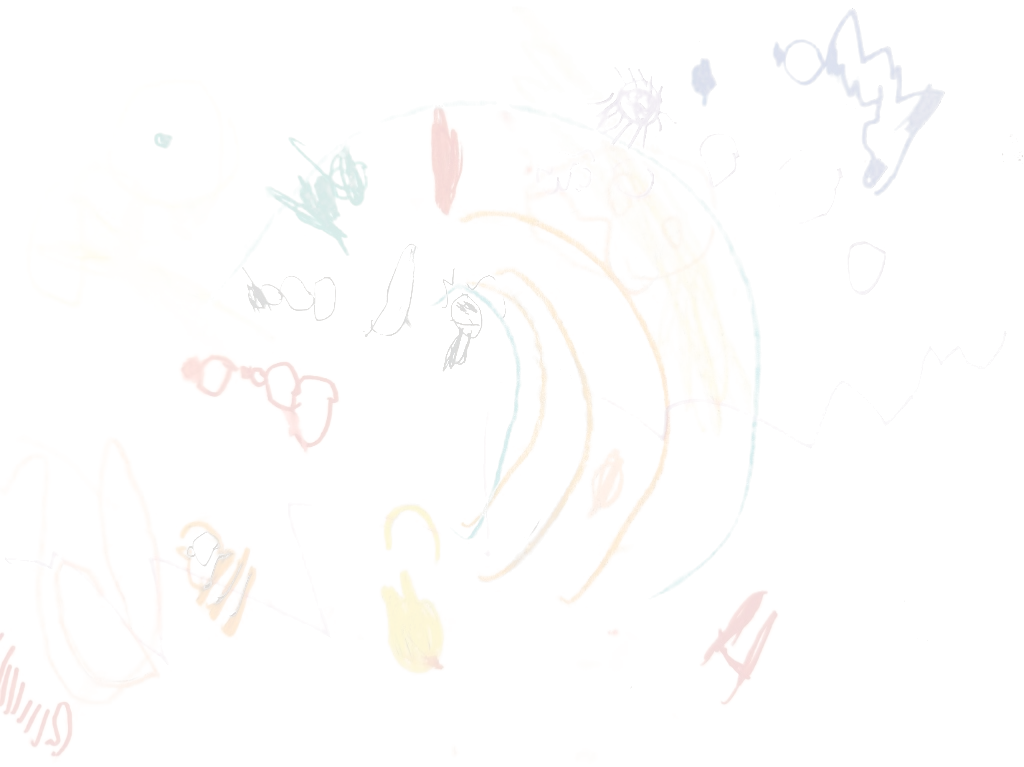
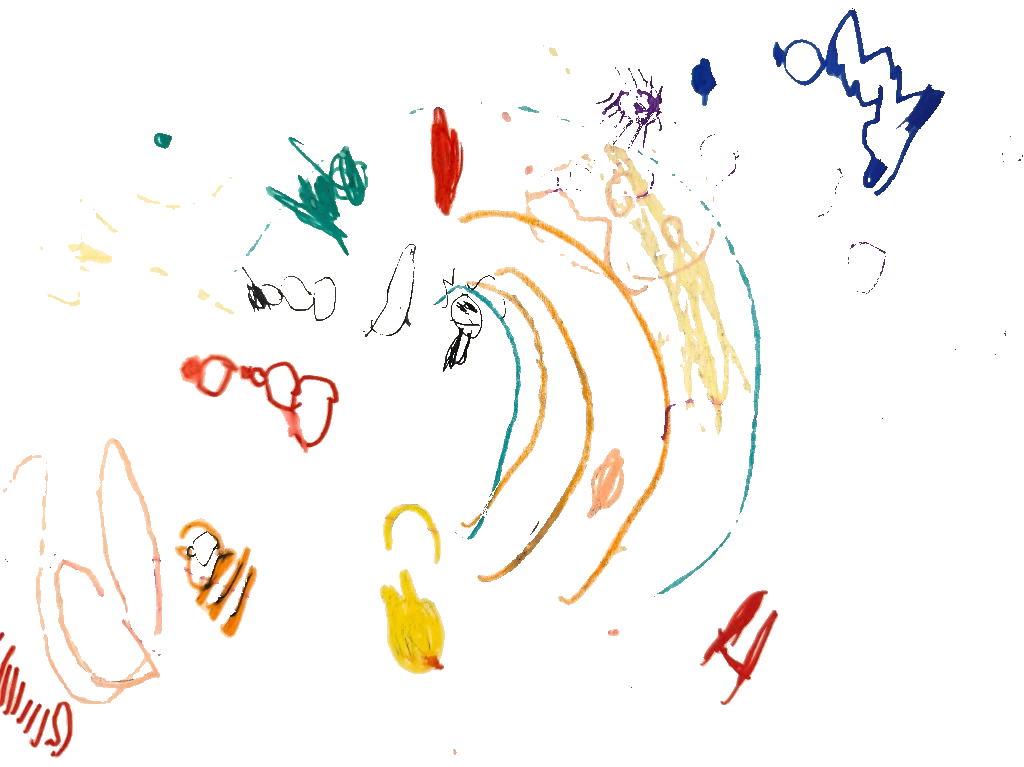
Make the booking tracing static and restore natural crayon colors.

diff --git a/src/pages/book-portal.css b/src/pages/book-portal.css
@@ -252,65 +252,8 @@
   pointer-events: none;
   position: absolute;
   inset: 6px 8px;
-  opacity: 0.96;
-  filter: brightness(1.42) saturate(1.72) contrast(1.12);
-  transform-origin: center;
-  will-change: transform, filter;
-}
-
-.page--book-portal .book-portal__calendar-tracing--one {
-  animation: calendar-tracing-drift-one 5.5s ease-in-out infinite alternate;
-}
-
-.page--book-portal .book-portal__calendar-tracing--two {
-  animation: calendar-tracing-drift-two 6.5s ease-in-out -2s infinite alternate;
-  opacity: 0.52;
-  mix-blend-mode: screen;
-}
-
-.page--book-portal .book-portal__calendar-tracing--three {
-  animation: calendar-tracing-drift-three 7.5s ease-in-out -4s infinite alternate;
-  opacity: 0.36;
-  mix-blend-mode: screen;
-}
-
-@keyframes calendar-tracing-drift-one {
-  from {
-    transform: translate3d(-2.5%, 2.25%, 0) rotate(-2deg) scale(0.985);
-    filter: brightness(1.3) saturate(1.5) contrast(1.08);
-  }
-  to {
-    transform: translate3d(2.5%, -2.25%, 0) rotate(2.5deg) scale(1.02);
-    filter: brightness(1.58) saturate(1.92) contrast(1.16);
-  }
-}
-
-@keyframes calendar-tracing-drift-two {
-  from {
-    transform: translate3d(2.75%, -2.5%, 0) rotate(2.5deg) scale(1.02);
-    filter: brightness(1.52) saturate(1.9) contrast(1.15);
-  }
-  to {
-    transform: translate3d(-2.75%, 2.5%, 0) rotate(-2.75deg) scale(0.985);
-    filter: brightness(1.26) saturate(1.48) contrast(1.07);
-  }
-}
-
-@keyframes calendar-tracing-drift-three {
-  from {
-    transform: translate3d(-2.25%, -2.75%, 0) rotate(-3deg) scale(1.015);
-    filter: brightness(1.34) saturate(1.62) contrast(1.1);
-  }
-  to {
-    transform: translate3d(2.25%, 2.75%, 0) rotate(3.25deg) scale(0.98);
-    filter: brightness(1.6) saturate(1.96) contrast(1.17);
-  }
-}
-
-@media (prefers-reduced-motion: reduce) {
-  .page--book-portal .book-portal__calendar-tracing {
-    animation: none;
-  }
+  opacity: 1;
+  filter: none;
 }
 
 /*

diff --git a/src/pages/BookPage.jsx b/src/pages/BookPage.jsx
@@ -499,17 +499,7 @@ export default function BookPage() {
                 {upcoming.length === 0 ? (
                   <div className="book-portal__calendar-tracing-band" aria-hidden="true">
                     <img
-                      className="book-portal__calendar-tracing book-portal__calendar-tracing--one"
-                      src="/book/calendar-tracing.png"
-                      alt=""
-                    />
-                    <img
-                      className="book-portal__calendar-tracing book-portal__calendar-tracing--two"
-                      src="/book/calendar-tracing.png"
-                      alt=""
-                    />
-                    <img
-                      className="book-portal__calendar-tracing book-portal__calendar-tracing--three"
+                      className="book-portal__calendar-tracing"
                       src="/book/calendar-tracing.png"
                       alt=""
                     />
